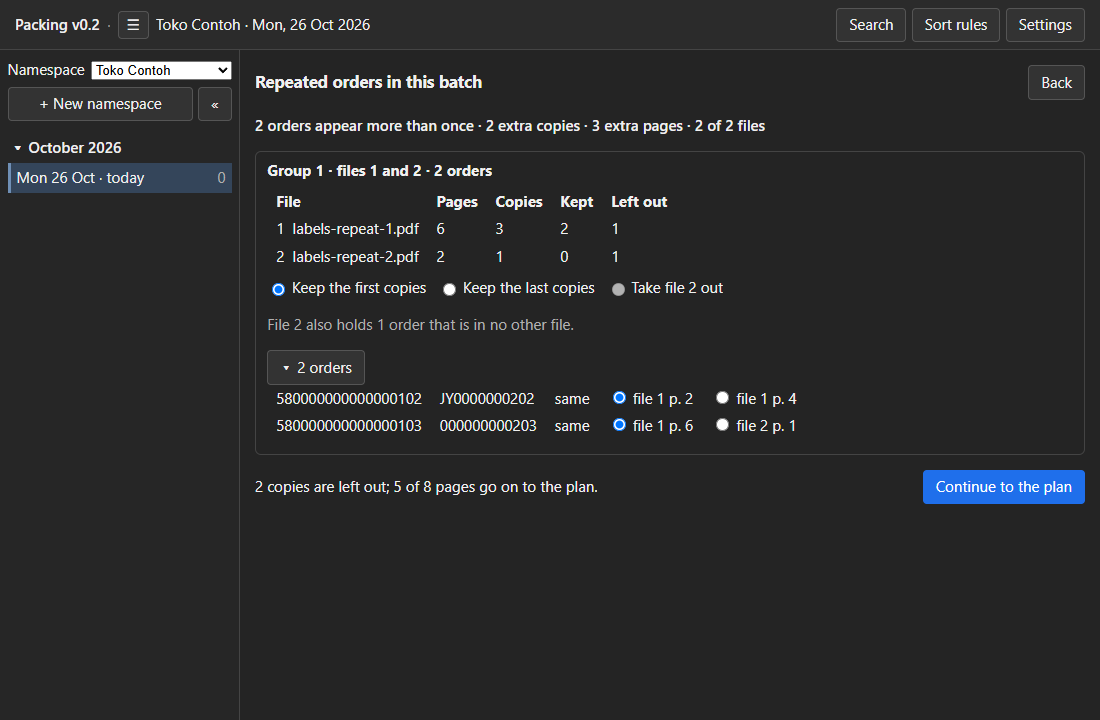
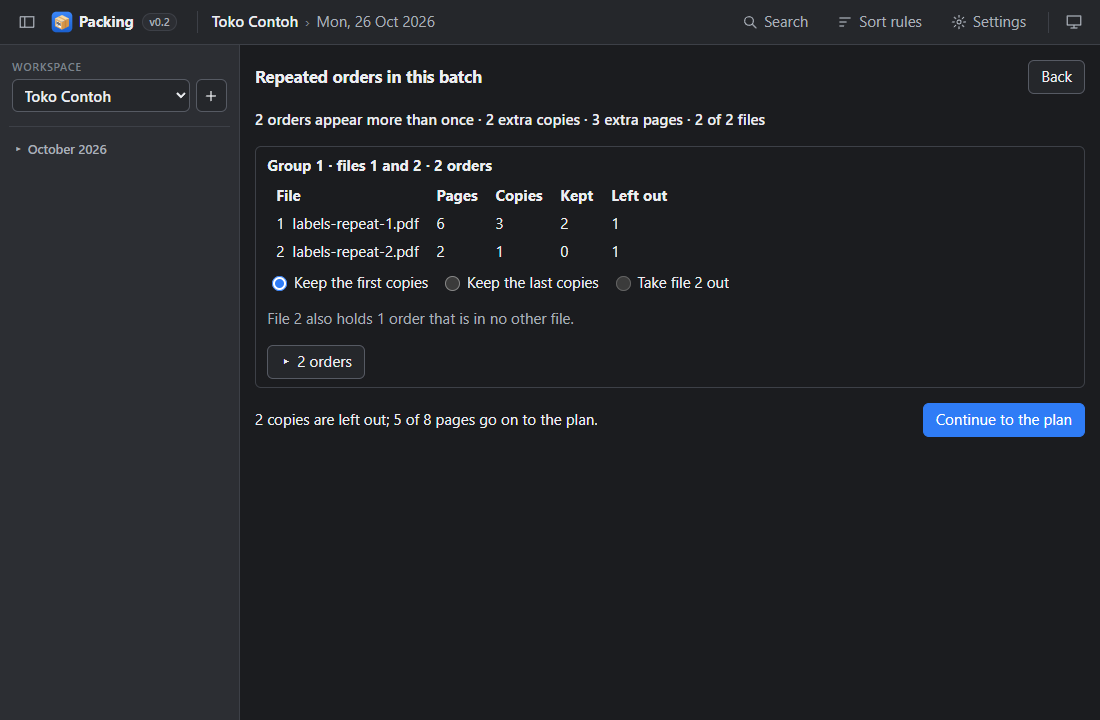
R10.11: the guide's pictures of the current program; handoff
- docs/user-guide/images/ taken again from the rebuilt program on the
  testdata/ labels, with the new 08-reprints.png (the Reprints card with a
  reprint's orders open). The picture script now gives its copy a WebView2
  profile of its own, so it runs while the owner has the program open.
- R10 is done: its task file is deleted; its findings are in the design.
- The handoff: what the owner may test, Q-LABEL-12 (what the day summary
  holds; the default is built), then R6.4 and R9.

The program folder target/portable/Packing/ is rebuilt (make-portable.sh).

diff --git a/docs/development/plan/README.md b/docs/development/plan/README.md
@@ -6,21 +6,29 @@ task: a task report states *size gate passed, no new lint suppression, coverage 
 
 ## Status (2026-10-26)
 
-- **Handoff of the session of 2026-10-26 (late) — the work is [R10-owner-review.md](R10-owner-review.md).**
-  The owner tested v0.2 and asked for the theme, the look, *workspace*, a filter for an unknown courier and
-  the summary PDF's old order. R10.1 to R10.4 are done and pushed: the theme menu (Light, Dark, System) and
-  every control in the theme's colours; the new title bar, panel head, first-start cards and Settings with
-  *About*; the group code on one line; *Courier · is unknown* (`is_empty`); the summary PDF as facts →
-  groups with their order contents → picks. The program folder `target/portable/Packing/` is rebuilt.
-  - **The owner's second round** (2026-10-26): *workspace* confirmed, the default data folder
-    `packing-data`, *N orders | N contents*, Search's select-all at the left, a designed reprint, a day
-    summary and an app icon — R10.5 to R10.11 in the task file.
-  - **Next:** the first unfinished step of R10, then **R6.4** ([R6-app-journal.md](R6-app-journal.md))
-    and **R9** (the full check, an independent review of the whole v0.2 diff, the coverage baseline, the
-    handoff).
+- **Handoff of the session of 2026-10-26 (night) — the owner tests the second round of R10; then the
+  work is R6.4 and R9.** Both rounds of the owner's v0.2 review are built and pushed; the task file R10 is
+  done and gone, its findings written into the design. Round one: the theme menu, the new look, *Courier ·
+  is unknown*, the summary PDF's order. Round two: *workspace* everywhere (the journal's stored field keeps
+  `namespace`), the default data folder `packing-data`, *88 orders | 3 contents*, Search's head row with
+  the select-all tick, the reprint bar, *Reprinted* marks and the ask before printing again, the Day
+  screen's *Reprints* card, **Day summary** and the app icon. `target/portable/Packing/` is rebuilt and
+  the guide's pictures are retaken.
+  - **The owner may test now**, in this order: Search — type or scan a tracking ID and press Enter; a
+    click on a row ticks it; reprint one order, search it again: it shows *Reprinted*, and a second
+    reprint asks first. The Day screen's *Reprints* card and its *Orders ▸*. **Day summary** after a
+    batch. The icon on `Packing.exe` and in the taskbar. A program folder whose `packing-settings.toml`
+    names `data` keeps it; `packing-data` is only offered at a first start.
+  - **One open question:** [Q-LABEL-12](../../software-design/questions/label.md), what the day summary
+    holds; the default (option 1) is built. The owner answers there with an option or in words; the next
+    session writes the answer into [day-summary.md](../../software-design/labels/day-summary.md) and
+    [decisions/label.md](../../software-design/decisions/label.md), removes the question, and changes
+    the PDF when the answer is not the default.
   - A finding goes into [reviews/ui.md](../../reviews/ui.md), [reviews/label.md](../../reviews/label.md),
     [reviews/rules.md](../../reviews/rules.md) or [reviews/app.md](../../reviews/app.md) as the next
-    `R-<SCOPE>-n` (R-UI-20, R-LABEL-4, R-RULES-4, R-APP-5); the next session turns each into a step.
+    `R-<SCOPE>-n` (R-UI-20, R-LABEL-4, R-RULES-4, R-APP-5); the next session turns each into a task.
+  - **Next without the owner:** **R6.4** ([R6-app-journal.md](R6-app-journal.md)), then **R9** (the full
+    check, an independent review of the whole v0.2 diff, the coverage baseline, the handoff).
   - The guide's pictures are the real program on the `testdata/` labels (`node tools/guide-pictures.mjs`
     drives a fresh copy over WebView2's DevTools port); the same run is a quick smoke test of the build.
 
